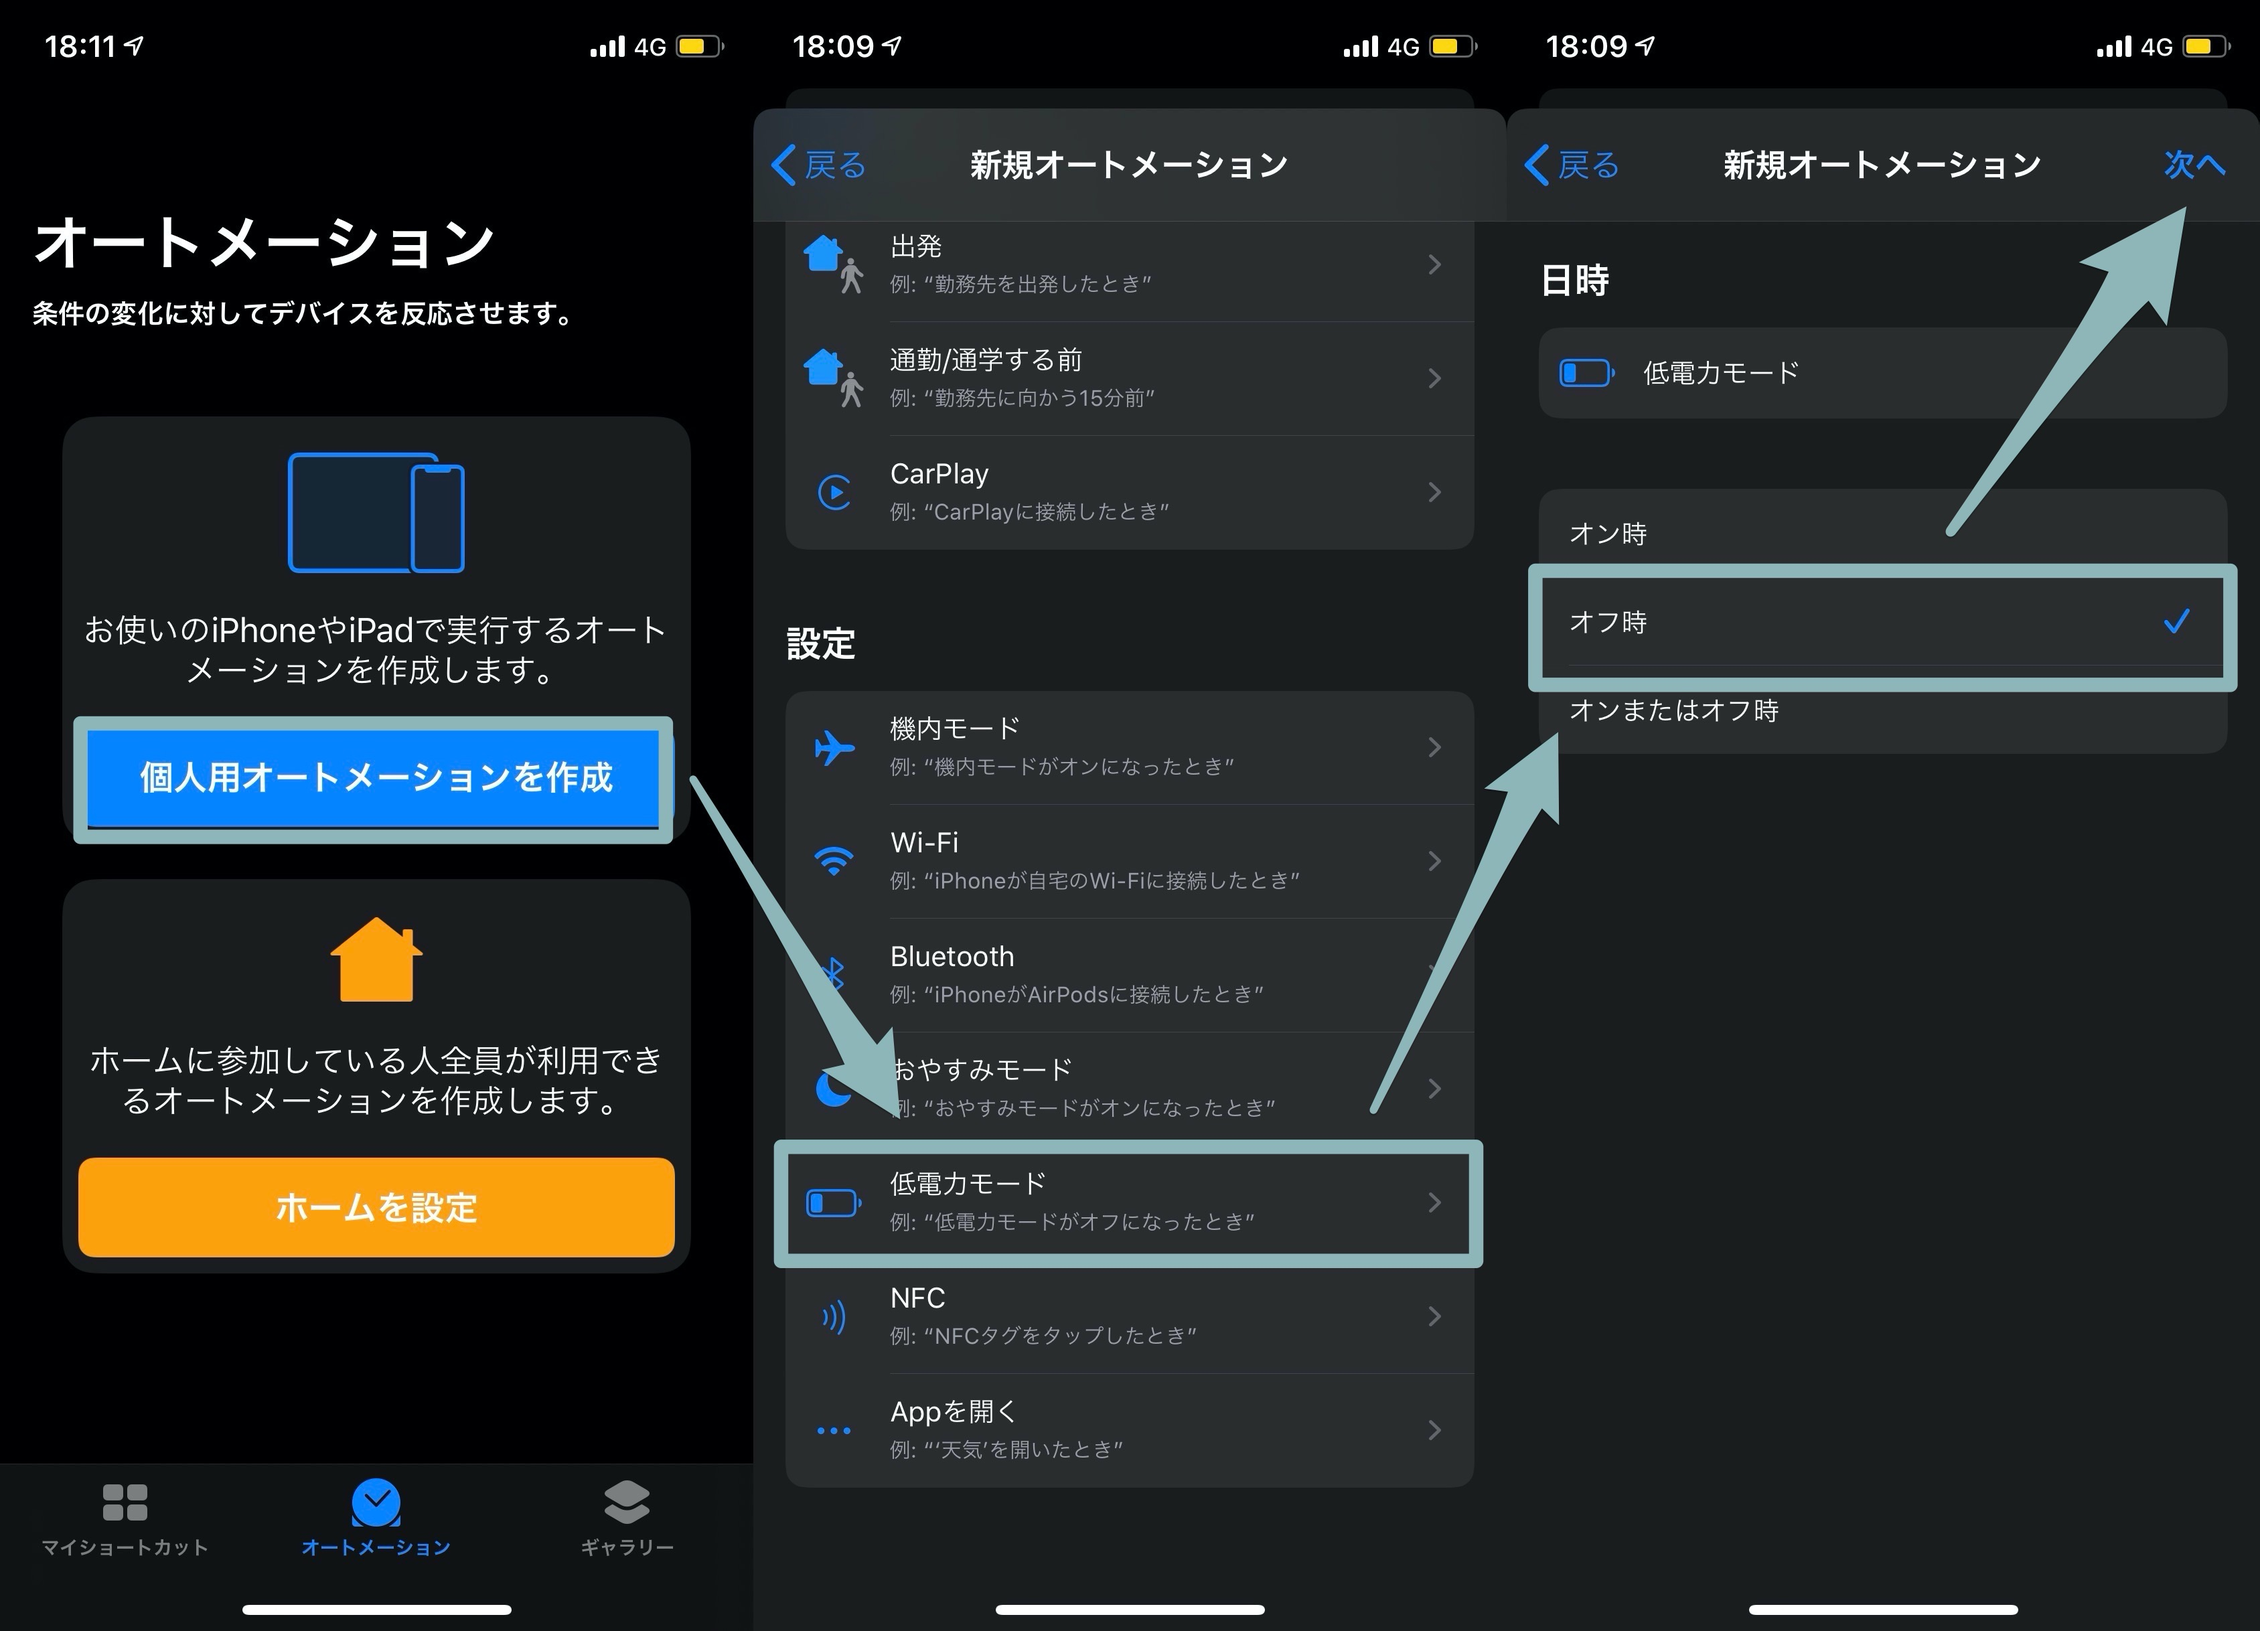
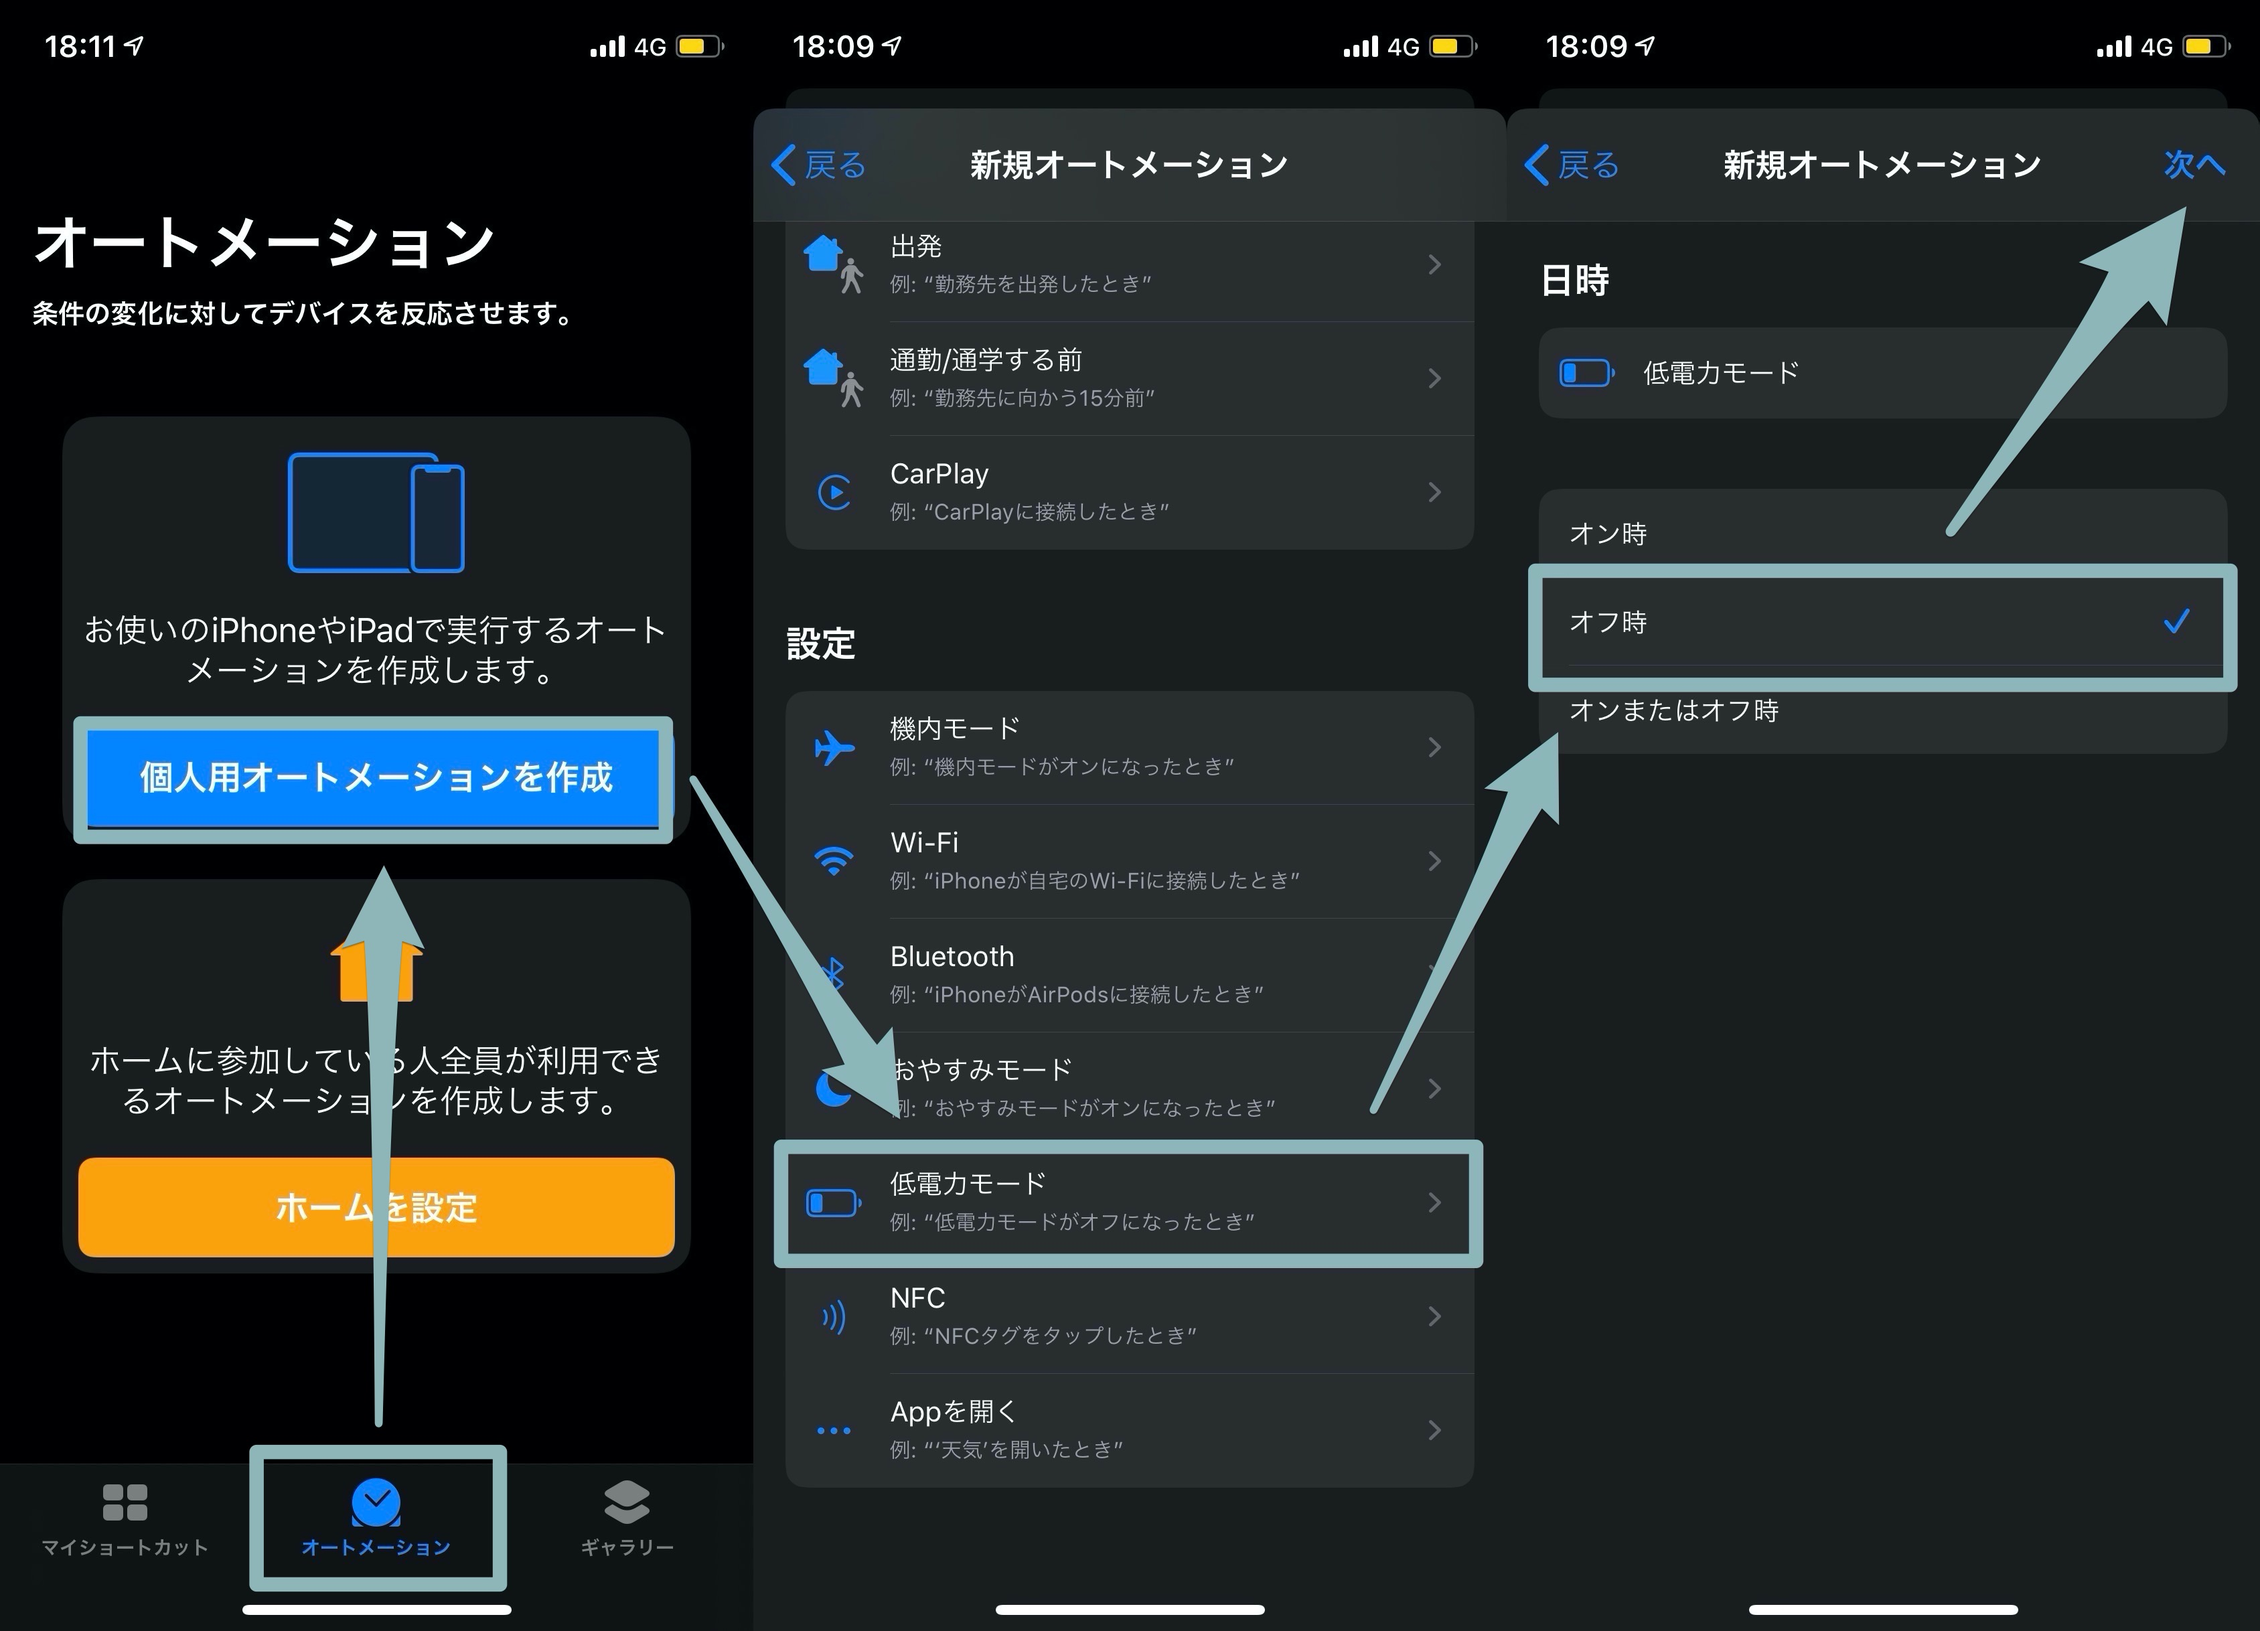
add Post

Changed region(s): [[0.0933, 0.5304, 0.2489, 0.9984]]

diff --git a/content/blog/gadget/-ios-anytime-lowbatterymode.md b/content/blog/gadget/-ios-anytime-lowbatterymode.md
@@ -10,19 +10,21 @@ tags: ["iOSトピック","ショートカット","Topic"]
 
 iPhoneの[省電力モード](https://support.apple.com/ja-jp/HT205234)では "Hey Siri" や メールの取得 などが無効化されるなどの機能制限がかかってしまいますが、バッテリー消費を抑えることができます。
 
-{{ ad }}
-
 しかし、外で "Hey Siri" を使う場面は少ないというか、迷惑なことの方が多いですよね。また、メール取得の無効化も純正のメールアプリだけで、Sparkなどの純正でないアプリを使っていれば通知も来ます。
 
 また、80%を超えると自動的に省電力モードがオフになります。本来は適切な動きだとは思いますが、<b>常時省電力モードで使いたい！</b>という場面もあると思うので、省電力モードをOFFにできないようにしたいと思います。
 
-![](../../../images/ios-anytime-lowbatterymode-4.jpeg)
+{{<ad>}}
 
 ## ショートカットを使って常時省電力モード化
+
+OFFにできないようにするというよりは、省電力モードをOFFにした時に自動的に再度ONにするという動きをショートカットというアプリで作ります。
 
 {{<blogcard url="https://apps.apple.com/jp/app/ショートカット/id1462947752">}}
 
 ### 1. 省電力モードをオフにした時のオートメーションを作成する
+
+アプリを開いたら下のタブから`オートメーション`を選択し、`省電力モード`を`オフ`にした時にショートカットを実行するようにします。
 
 ![](../../../images/ios-anytime-lowbatterymode-1.jpg)
 
@@ -33,8 +35,6 @@ iPhoneの[省電力モード](https://support.apple.com/ja-jp/HT205234)では "H
 ### 3. 確認なしで実行するように
 
 ![](../../../images/ios-anytime-lowbatterymode-3.jpg)
-
-
 
 ***
 
